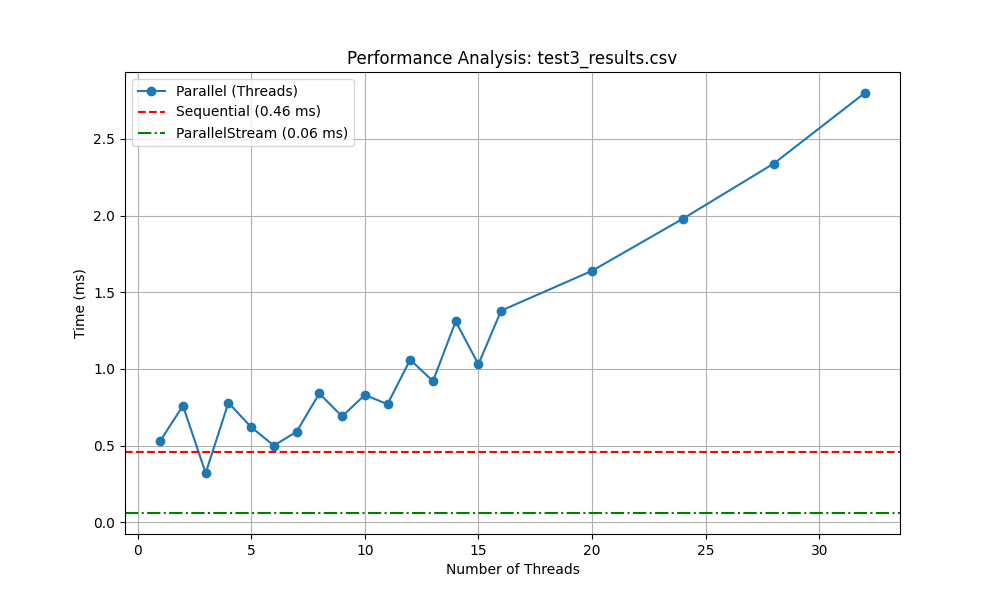
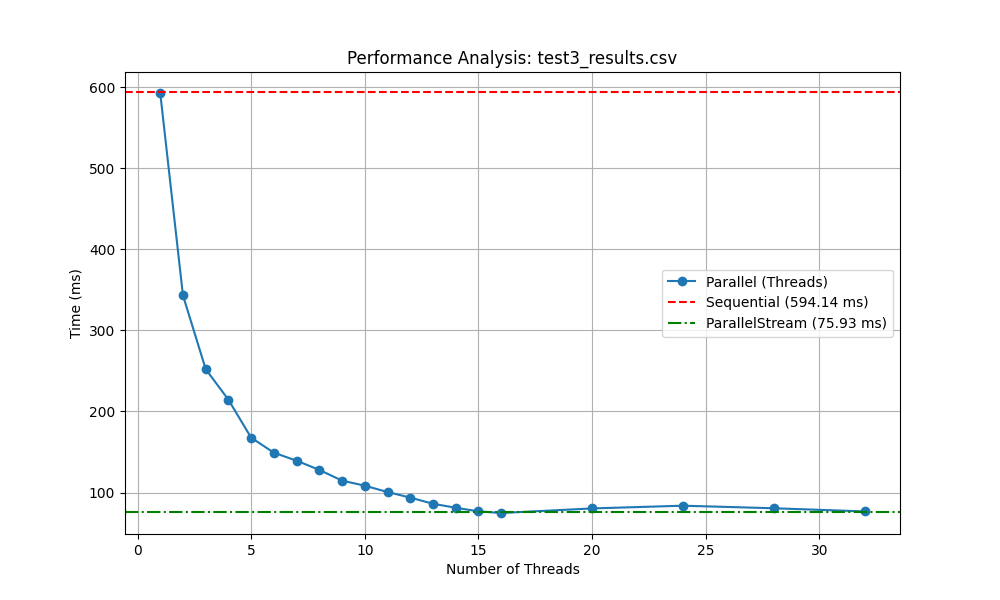
fix

diff --git a/Task_2_1_1/src/main/java/ru/nsu/gaev/Main.java b/Task_2_1_1/src/main/java/ru/nsu/gaev/Main.java
@@ -150,22 +150,21 @@ public class Main {
     public static int[] generateLargePrimes() {
         // Repeat the set of large primes to increase load
         final int[] sourcePrimes = {
-            2147483647, 2147483629, 2147483587, 2147483579, 2147483563,
-            2147483549, 2147483543, 2147483539, 2147483537, 2147483527,
-            2147483521, 2147483507, 2147483501, 2147483497, 2147483489,
-            2147483477, 2147483471, 2147483461, 2147483459, 2147483449,
-            2147483443, 2100000037, 2099999999, 2099999927, 2099999891,
-            2099999837, 2000000011, 1999999937, 1999999829, 1999999827,
-            1999999823, 1900000007, 1899999937, 1899999831, 1899999829,
-            1899999823, 1800000023, 1799999999, 1799999927, 1799999891,
-            1799999837, 1700000003, 1699999999, 1699999927, 1699999891,
-            1699999837, 1600000007, 1599999937, 1599999829, 1599999827,
-            1599999823
+                2147483647, 2147483629, 2147483587, 2147483579, 2147483563,
+                2147483549, 2147483543, 2147483497, 2147483489, 2147483477,
+                2147483423, 2147483399, 2147483353, 2147483323, 2147483269,
+                2147483249, 2147483237, 2147483179, 2147483171, 2147483137,
+                2147483123, 2147483077, 2147483069, 2147483059, 2147483053,
+                2147483033, 2147483029, 2147482951, 2147482949, 2147482943,
+                2147482937, 2147482921, 2147482877, 2147482873, 2147482867,
+                2147482859, 2147482819, 2147482817, 2147482811, 2147482801,
+                2147482763, 2147482739, 2147482697, 2147482693, 2147482681,
+                2147482663, 2147482661, 2147482621, 2147482591, 2147482583
         };
 
         // Create a larger array by repeating the source primes
         // Increase multiplier to ensure heavy load
-        final int multiplier = 2000;
+        final int multiplier = 200;
         final int[] largePrimes = new int[sourcePrimes.length * multiplier];
         for (int i = 0; i < multiplier; i++) {
             System.arraycopy(sourcePrimes, 0, largePrimes, i * sourcePrimes.length,
